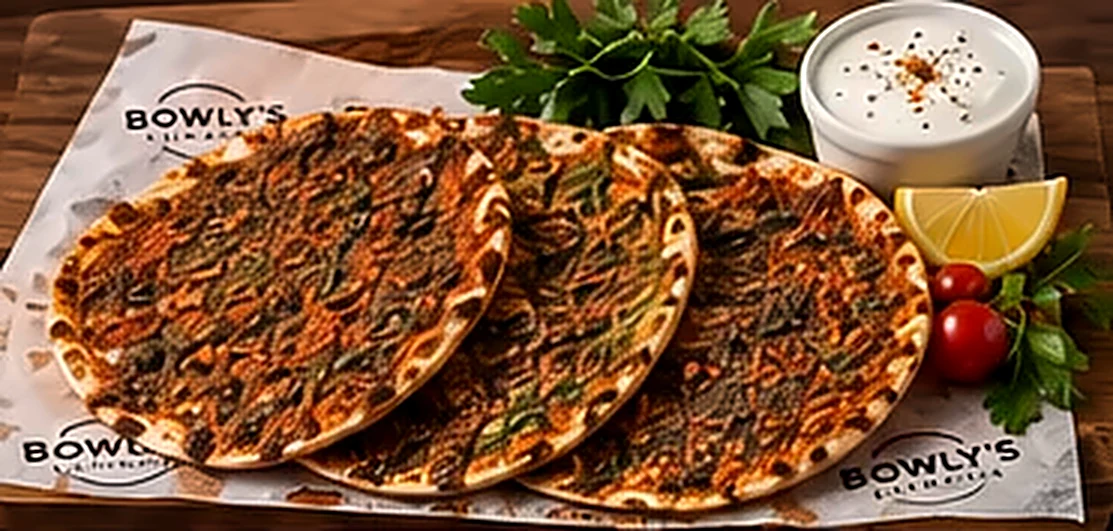
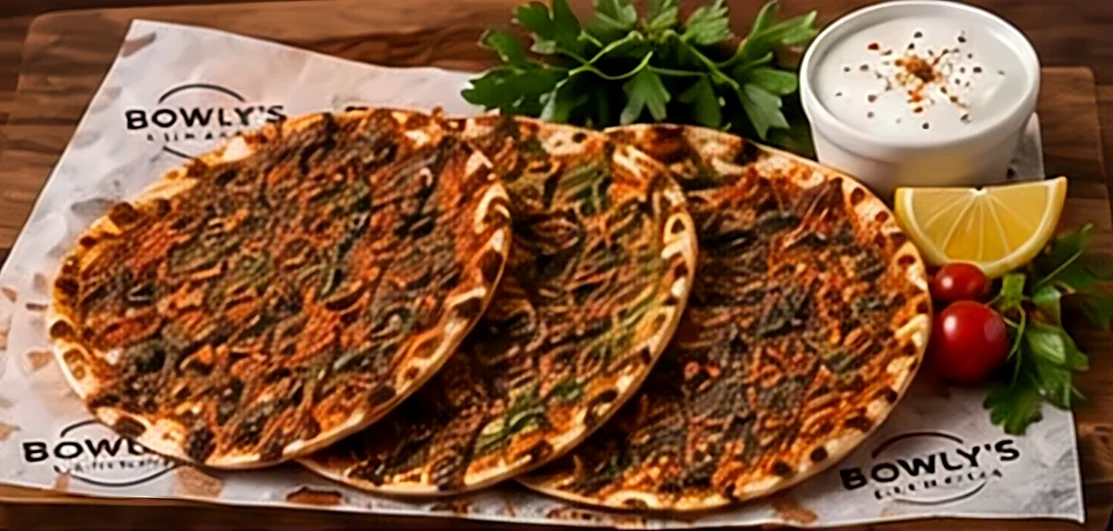
Bienvenue avec texte complet et petits lahmacuns, photos retravaillées par super-résolution, site plus fluide
- Photos de la carte ré-agrandies avec un modèle de super-résolution (EDSR)
- Effets coûteux retirés : flous géants, coins arrondis animés, filtre sur la vidéo
- Vidéos de la bannière en pause hors de l'écran
- L'en-tête réapparaît après un ajout au panier

Claude-Session: https://claude.ai/code/session_01QVUGsx429tXa1Veq12NrmR

diff --git a/bowlys/src/components/Sections.tsx b/bowlys/src/components/Sections.tsx
@@ -59,15 +59,14 @@ export function EnTete({ surtitre, titre, id, clair = false, sousTitre }: { surt
 }
 
 /* ─────────── Bienvenue chez BOWLY'S ─────────── */
-/** Ingrédients détourés qui flottent autour du panneau. */
+/** Petits lahmacuns qui flottent autour du panneau. */
 const INGREDIENTS = [
-  { src: "/images/choix/tomate.webp", classe: "left-[46%] -top-7 w-16 sm:w-20 [--r:-10deg]", delai: "0s" },
-  { src: "/images/choix/salade.webp", classe: "-right-3 top-[38%] w-14 sm:-right-6 sm:w-[4.5rem] [--r:12deg]", delai: "-2s" },
-  { src: "/images/choix/sauce-blanche.webp", classe: "-bottom-8 right-[22%] w-[4.5rem] sm:w-24 [--r:6deg]", delai: "-4s" },
+  { src: "/images/choix/lahmacun-nature.webp", classe: "left-[46%] -top-8 w-[4.5rem] sm:w-24 [--r:-10deg]", delai: "0s" },
+  { src: "/images/choix/lahmacun-poulet.webp", classe: "-right-3 top-[14%] w-16 sm:-right-7 sm:w-20 lg:top-[38%] [--r:14deg]", delai: "-2s" },
+  { src: "/images/choix/lahmacun-boeuf.webp", classe: "-bottom-9 right-[22%] w-[4.5rem] sm:w-[5.5rem] [--r:6deg]", delai: "-4s" },
 ];
 
 export function Bienvenue() {
-  const box = produitsDe("box");
   const durum = produitsDe("durum")[0];
   return (
     <section id="concept" aria-labelledby="bienvenue-titre" className="sous-feuille relative bg-white pt-20 [overflow-x:clip] sm:pt-28">
@@ -75,7 +74,7 @@ export function Bienvenue() {
         <div className="apparait relative">
           <div className="sur-sombre relative grid overflow-hidden rounded-[2.2rem] bg-vin text-white shadow-[0_60px_120px_-60px_rgba(45,4,6,.9)] lg:grid-cols-[1.1fr_1fr] lg:rounded-[3rem]">
             {/* Halo chaud derrière le plat */}
-            <div aria-hidden="true" className="absolute right-[-10%] top-1/2 size-[70%] -translate-y-1/2 rounded-full bg-rouge/30 blur-[100px]" />
+            <div aria-hidden="true" className="absolute inset-0 bg-[radial-gradient(55%_70%_at_78%_50%,rgba(140,2,10,.35),transparent_70%)]" />
 
             {/* Photo : le fond bordeaux du menu se fond dans le panneau (bords estompés) */}
             <div className="relative order-1 lg:order-2">
@@ -91,12 +90,14 @@ export function Bienvenue() {
               <h2 id="bienvenue-titre" className="mt-5">
                 <Logo variante="nom" titre="BOWLY'S" className="mx-auto w-[min(88%,400px)] text-white lg:mx-0" />
               </h2>
-              <p className="mt-6 font-display text-[clamp(1.35rem,2.4vw,1.9rem)] font-bold leading-tight">Le lahmacun, fin et généreux.</p>
-              <p className="mx-auto mt-3 max-w-[38ch] text-[1.05rem] text-white/75 lg:mx-0">En box à partager ou en dürüm à composer, sur place ou à emporter.</p>
-              <ul className="mt-7 flex flex-wrap justify-center gap-2 lg:justify-start">
-                <li className="rounded-full bg-white/10 px-4 py-2 text-sm font-bold ring-1 ring-white/20">Box dès {prix(Math.min(...box.map((p) => p.prix)))}</li>
-                <li className="rounded-full bg-white/10 px-4 py-2 text-sm font-bold ring-1 ring-white/20">Dürüm {prix(durum.prix)}</li>
-              </ul>
+              <div className="mx-auto mt-7 grid max-w-[44ch] gap-4 text-[1.05rem] leading-relaxed text-white/80 lg:mx-0">
+                <p>
+                  Chez BOWLY&apos;S, tout tourne autour du lahmacun. Une pâte fine, une garniture parfumée, des crudités fraîches et la sauce que vous aimez.
+                </p>
+                <p>
+                  BOWLY&apos;S est né d&apos;une idée simple : donner au lahmacun la place qu&apos;il mérite, avec une carte courte pensée entièrement autour de lui. En box de petits formats pour partager, ou en dürüm grand format composé à votre goût. Sur place ou à emporter.
+                </p>
+              </div>
               <div className="mt-8 flex flex-col flex-wrap justify-center gap-3 sm:flex-row lg:justify-start">
                 <LienBouton href="/carte/" style="blanc" taille="lg">Découvrir la carte <ArrowRight className="size-5" /></LienBouton>
                 <LienBouton href={`/carte/durum/${durum.id}/`} style="contour-blanc" taille="lg">Composer mon dürüm</LienBouton>
@@ -202,7 +203,7 @@ export function Galerie() {
     <section aria-labelledby="galerie-titre" className="sur-sombre feuille sous-feuille overflow-hidden bg-encre pt-24 text-white sm:pt-32">
       <div className={`${conteneur} grid items-center gap-16 md:grid-cols-2 md:gap-24`}>
         <div className="apparait relative mx-auto w-[min(78vw,340px)] md:order-2">
-          <div aria-hidden="true" className="absolute -inset-12 -z-10 rounded-full bg-rouge/45 blur-3xl" />
+          <div aria-hidden="true" className="absolute -inset-16 -z-10 rounded-full bg-[radial-gradient(closest-side,rgba(140,2,10,.55),transparent)]" />
           <div className="relative aspect-[9/16] overflow-hidden rounded-[34px] bg-encre shadow-[0_50px_90px_-40px_rgba(11,15,26,.7)] ring-8 ring-white/10">
             {STORIES.map((s, k) => (
               <div key={s.src} className={`absolute inset-0 transition-opacity duration-700 ${k === i ? "opacity-100" : "opacity-0"}`} aria-hidden={k !== i}>
@@ -270,7 +271,7 @@ function Plan() {
             <g fill="none" stroke="#fff" strokeWidth="10" strokeLinecap="round"><path d="M-20 210 C 80 190 140 120 420 140" /><path d="M120 -20 L 170 320" /><path d="M300 -20 C 280 80 300 200 260 320" /></g>
             <g fill="none" stroke="#fff" strokeWidth="3"><path d="M-20 60 L 420 90" /><path d="M-20 270 L 420 250" /><path d="M40 -20 L 70 320" /><path d="M360 -20 L 380 320" /></g>
           </svg>
-          <div aria-hidden="true" className="absolute left-1/2 top-[44%] size-[340px] -translate-x-1/2 -translate-y-1/2 rounded-full bg-rouge/30 blur-3xl" />
+          <div aria-hidden="true" className="absolute left-1/2 top-[44%] size-[420px] -translate-x-1/2 -translate-y-1/2 rounded-full bg-[radial-gradient(closest-side,rgba(140,2,10,.4),transparent)]" />
           <div className="relative grid justify-items-center gap-5">
             <span className="relative grid size-20 place-items-center">
               <span className="absolute inset-0 animate-ping rounded-full bg-rouge/50" />

diff --git a/bowlys/src/app/globals.css b/bowlys/src/app/globals.css
@@ -49,16 +49,14 @@ h1, h2, h3, h4 { font-family: var(--font-display); text-wrap: balance; }
 /* Apparition au défilement : progressive, le contenu reste visible sans support. */
 /* Le contenu n'est jamais invisible : seul un léger glissement accompagne l'arrivée. */
 @keyframes arriver { from { transform: translateY(70px) scale(.96); } to { transform: none; } }
-@keyframes hero-sortie { to { transform: scale(.9); border-radius: 56px; filter: brightness(.7); } }
+@keyframes hero-sortie { to { transform: scale(.92); } }
 @keyframes parallaxe { from { transform: translateY(-7%) scale(1.14); } to { transform: translateY(7%) scale(1.14); } }
-@keyframes feuille-entree { from { border-top-left-radius: 140px; border-top-right-radius: 140px; } to { border-top-left-radius: 56px; border-top-right-radius: 56px; } }
 @supports (animation-timeline: view()) {
   .apparait { animation: arriver linear both; animation-timeline: view(); animation-range: entry 0% cover 28%; }
   .apparait-2 { animation: arriver linear both; animation-timeline: view(); animation-range: entry 8% cover 34%; }
   .apparait-3 { animation: arriver linear both; animation-timeline: view(); animation-range: entry 16% cover 40%; }
   .hero-sortie { animation: hero-sortie linear both; animation-timeline: view(); animation-range: exit 0% exit 90%; transform-origin: 50% 100%; }
   .parallaxe img { animation: parallaxe linear both; animation-timeline: view(); animation-range: cover; }
-  .feuille { animation: feuille-entree linear both; animation-timeline: view(); animation-range: entry 0% entry 60%; }
 }
 
 /* Sections empilées : chaque partie vient recouvrir la précédente avec un bord arrondi. */
@@ -108,10 +106,8 @@ h1, h2, h3, h4 { font-family: var(--font-display); text-wrap: balance; }
 }
 
 /* ── Photos qui se dévoilent en entrant à l'écran ── */
-@keyframes revele-cadre { from { clip-path: inset(10% 6% 0 6% round 1.4rem); } to { clip-path: inset(0 0 0 0 round 0); } }
 @keyframes revele-photo { from { scale: 1.18; } to { scale: 1; } }
 @supports (animation-timeline: view()) {
-  .revele { animation: revele-cadre linear both; animation-timeline: view(); animation-range: entry 0% cover 32%; }
   .revele img { animation: revele-photo linear both; animation-timeline: view(); animation-range: entry 0% cover 45%; }
 }
 

diff --git a/bowlys/src/components/Hero.tsx b/bowlys/src/components/Hero.tsx
@@ -21,27 +21,38 @@ const PANNEAUX = [
 export function Hero() {
   const refs = useRef<(HTMLVideoElement | null)[]>([]);
   const [lecture, setLecture] = useState(true);
+  const [visible, setVisible] = useState(true);
+  const zone = useRef<HTMLElement>(null);
   const { nbArticles, ouvrirPanier } = usePanier();
 
   useEffect(() => {
     if (window.matchMedia("(prefers-reduced-motion: reduce)").matches) setLecture(false);
   }, []);
 
+  // Les vidéos se mettent en pause dès que la bannière sort de l'écran (moins de batterie, défilement plus fluide).
+  useEffect(() => {
+    const el = zone.current;
+    if (!el) return;
+    const io = new IntersectionObserver(([e]) => setVisible(e.isIntersecting), { threshold: 0.05 });
+    io.observe(el);
+    return () => io.disconnect();
+  }, []);
+
   useEffect(() => {
     const sync = () =>
       refs.current.forEach((v) => {
         if (!v) return;
-        const visible = v.offsetParent !== null;
-        if (lecture && visible) v.play().catch(() => {});
+        const affiche = v.offsetParent !== null;
+        if (lecture && visible && affiche) v.play().catch(() => {});
         else v.pause();
       });
     sync();
     window.addEventListener("resize", sync);
     return () => window.removeEventListener("resize", sync);
-  }, [lecture]);
+  }, [lecture, visible]);
 
   return (
-    <section aria-labelledby="hero-titre" className="sur-sombre hero-sortie relative h-[100svh] min-h-[620px] max-h-[1000px] overflow-hidden bg-encre text-white">
+    <section ref={zone} aria-labelledby="hero-titre" className="sur-sombre hero-sortie relative h-[100svh] min-h-[620px] max-h-[1000px] overflow-hidden bg-encre text-white">
       <div className="absolute inset-0 grid grid-cols-1 md:grid-cols-3" aria-hidden="true">
         {PANNEAUX.map((p, i) => (
           <div key={p.video} className={`relative overflow-hidden ${p.mobile ? "md:hidden" : "hidden md:block"} ${i === 1 ? "md:border-x md:border-white/10" : ""}`}>

diff --git a/bowlys/src/components/Header.tsx b/bowlys/src/components/Header.tsx
@@ -15,6 +15,7 @@ export function Header({ transparent = false }: { transparent?: boolean }) {
   const { nbArticles, ouvrirPanier, bump } = usePanier();
   const [scrolle, setScrolle] = useState(!transparent);
   const [cache, setCache] = useState(false);
+  const garde = useRef(0);
   const [menu, setMenu] = useState(false);
   const panneau = useRef<HTMLDivElement>(null);
   useFenetre(menu, panneau, () => setMenu(false));
@@ -25,12 +26,15 @@ export function Header({ transparent = false }: { transparent?: boolean }) {
     const f = () => {
       const y = window.scrollY;
       if (transparent) setScrolle(y > 40);
-      if (Math.abs(y - avant) > 6) { setCache(y > avant && y > 480); avant = y; }
+      if (Math.abs(y - avant) > 6) { setCache(y > avant && y > 480 && Date.now() > garde.current); avant = y; }
     };
     f();
     window.addEventListener("scroll", f, { passive: true });
     return () => window.removeEventListener("scroll", f);
   }, [transparent]);
+
+  // Un article vient d'être ajouté : l'en-tête revient pour montrer le panier.
+  useEffect(() => { if (bump) { garde.current = Date.now() + 2500; setCache(false); } }, [bump]);
 
   const clair = !scrolle; // texte blanc sur la vidéo
   const commander = () => (nbArticles > 0 ? ouvrirPanier() : (window.location.href = "/carte/"));
